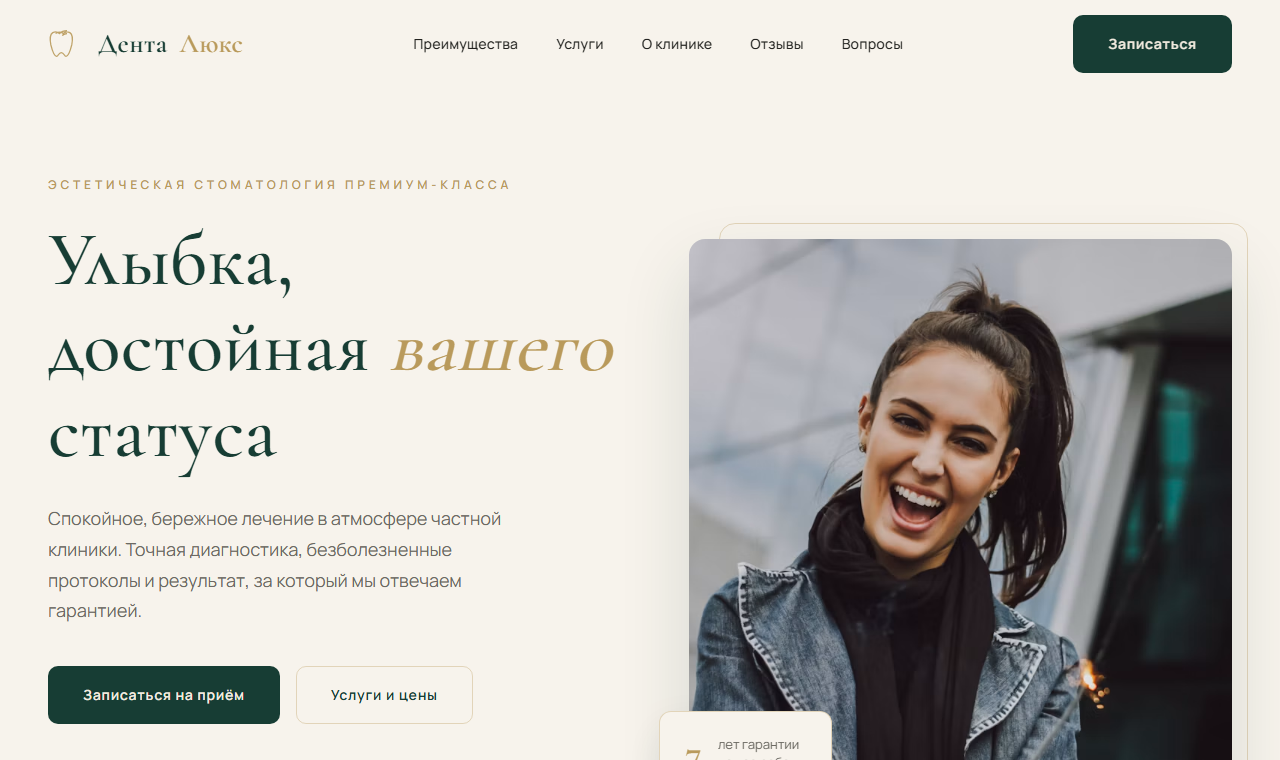
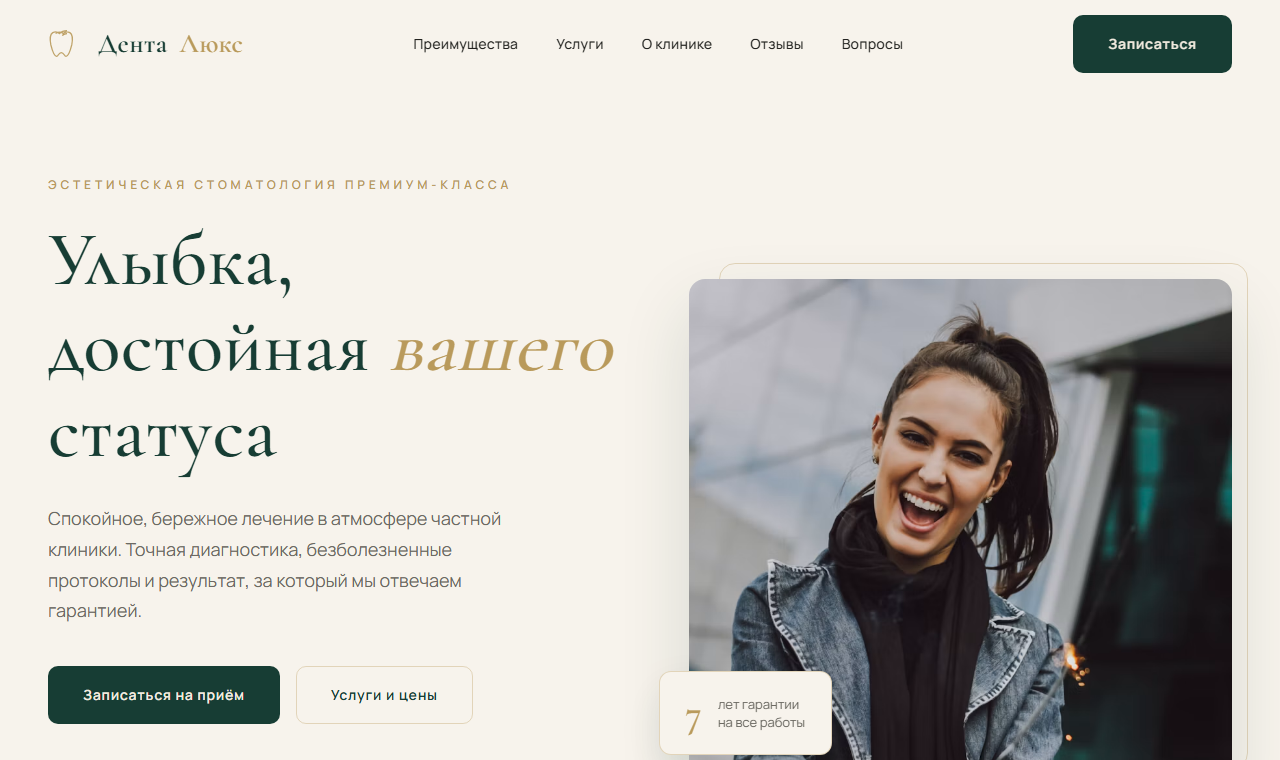
Клиника: фото в первом экране меньше, кадр не обрезает

diff --git a/01-klinika/index.html b/01-klinika/index.html
@@ -106,7 +106,7 @@ header.scrolled{border-bottom:1px solid var(--line);box-shadow:0 10px 30px rgba(
 .hero-stats .num span{color:var(--gold)}
 .hero-stats .cap{font-size:12.5px;color:var(--muted);letter-spacing:.04em;text-transform:uppercase}
 .hero-visual{position:relative}
-.hero-visual img{width:100%;height:600px;object-fit:cover;border-radius:16px;box-shadow:var(--shadow)}
+.hero-visual img{width:100%;height:520px;object-fit:cover;object-position:center 22%;border-radius:16px;box-shadow:var(--shadow)}
 .hero-visual::before{content:"";position:absolute;inset:-16px -16px 30px 30px;border:1px solid var(--line);border-radius:16px;z-index:-1}
 .hero-badge{
   position:absolute;left:-30px;bottom:44px;background:var(--ivory);
@@ -236,7 +236,7 @@ footer{background:var(--graphite);color:rgba(247,243,236,.72);padding:90px 0 40p
   .stats-grid{grid-template-columns:repeat(2,1fr);gap:44px 20px}
   .stats-grid .stat:nth-child(2){border-right:none}
   .foot-grid{grid-template-columns:1fr 1fr}
-  .hero-visual img{height:460px}
+  .hero-visual img{height:400px}
 }
 @media(max-width:640px){
   .nav-links{
